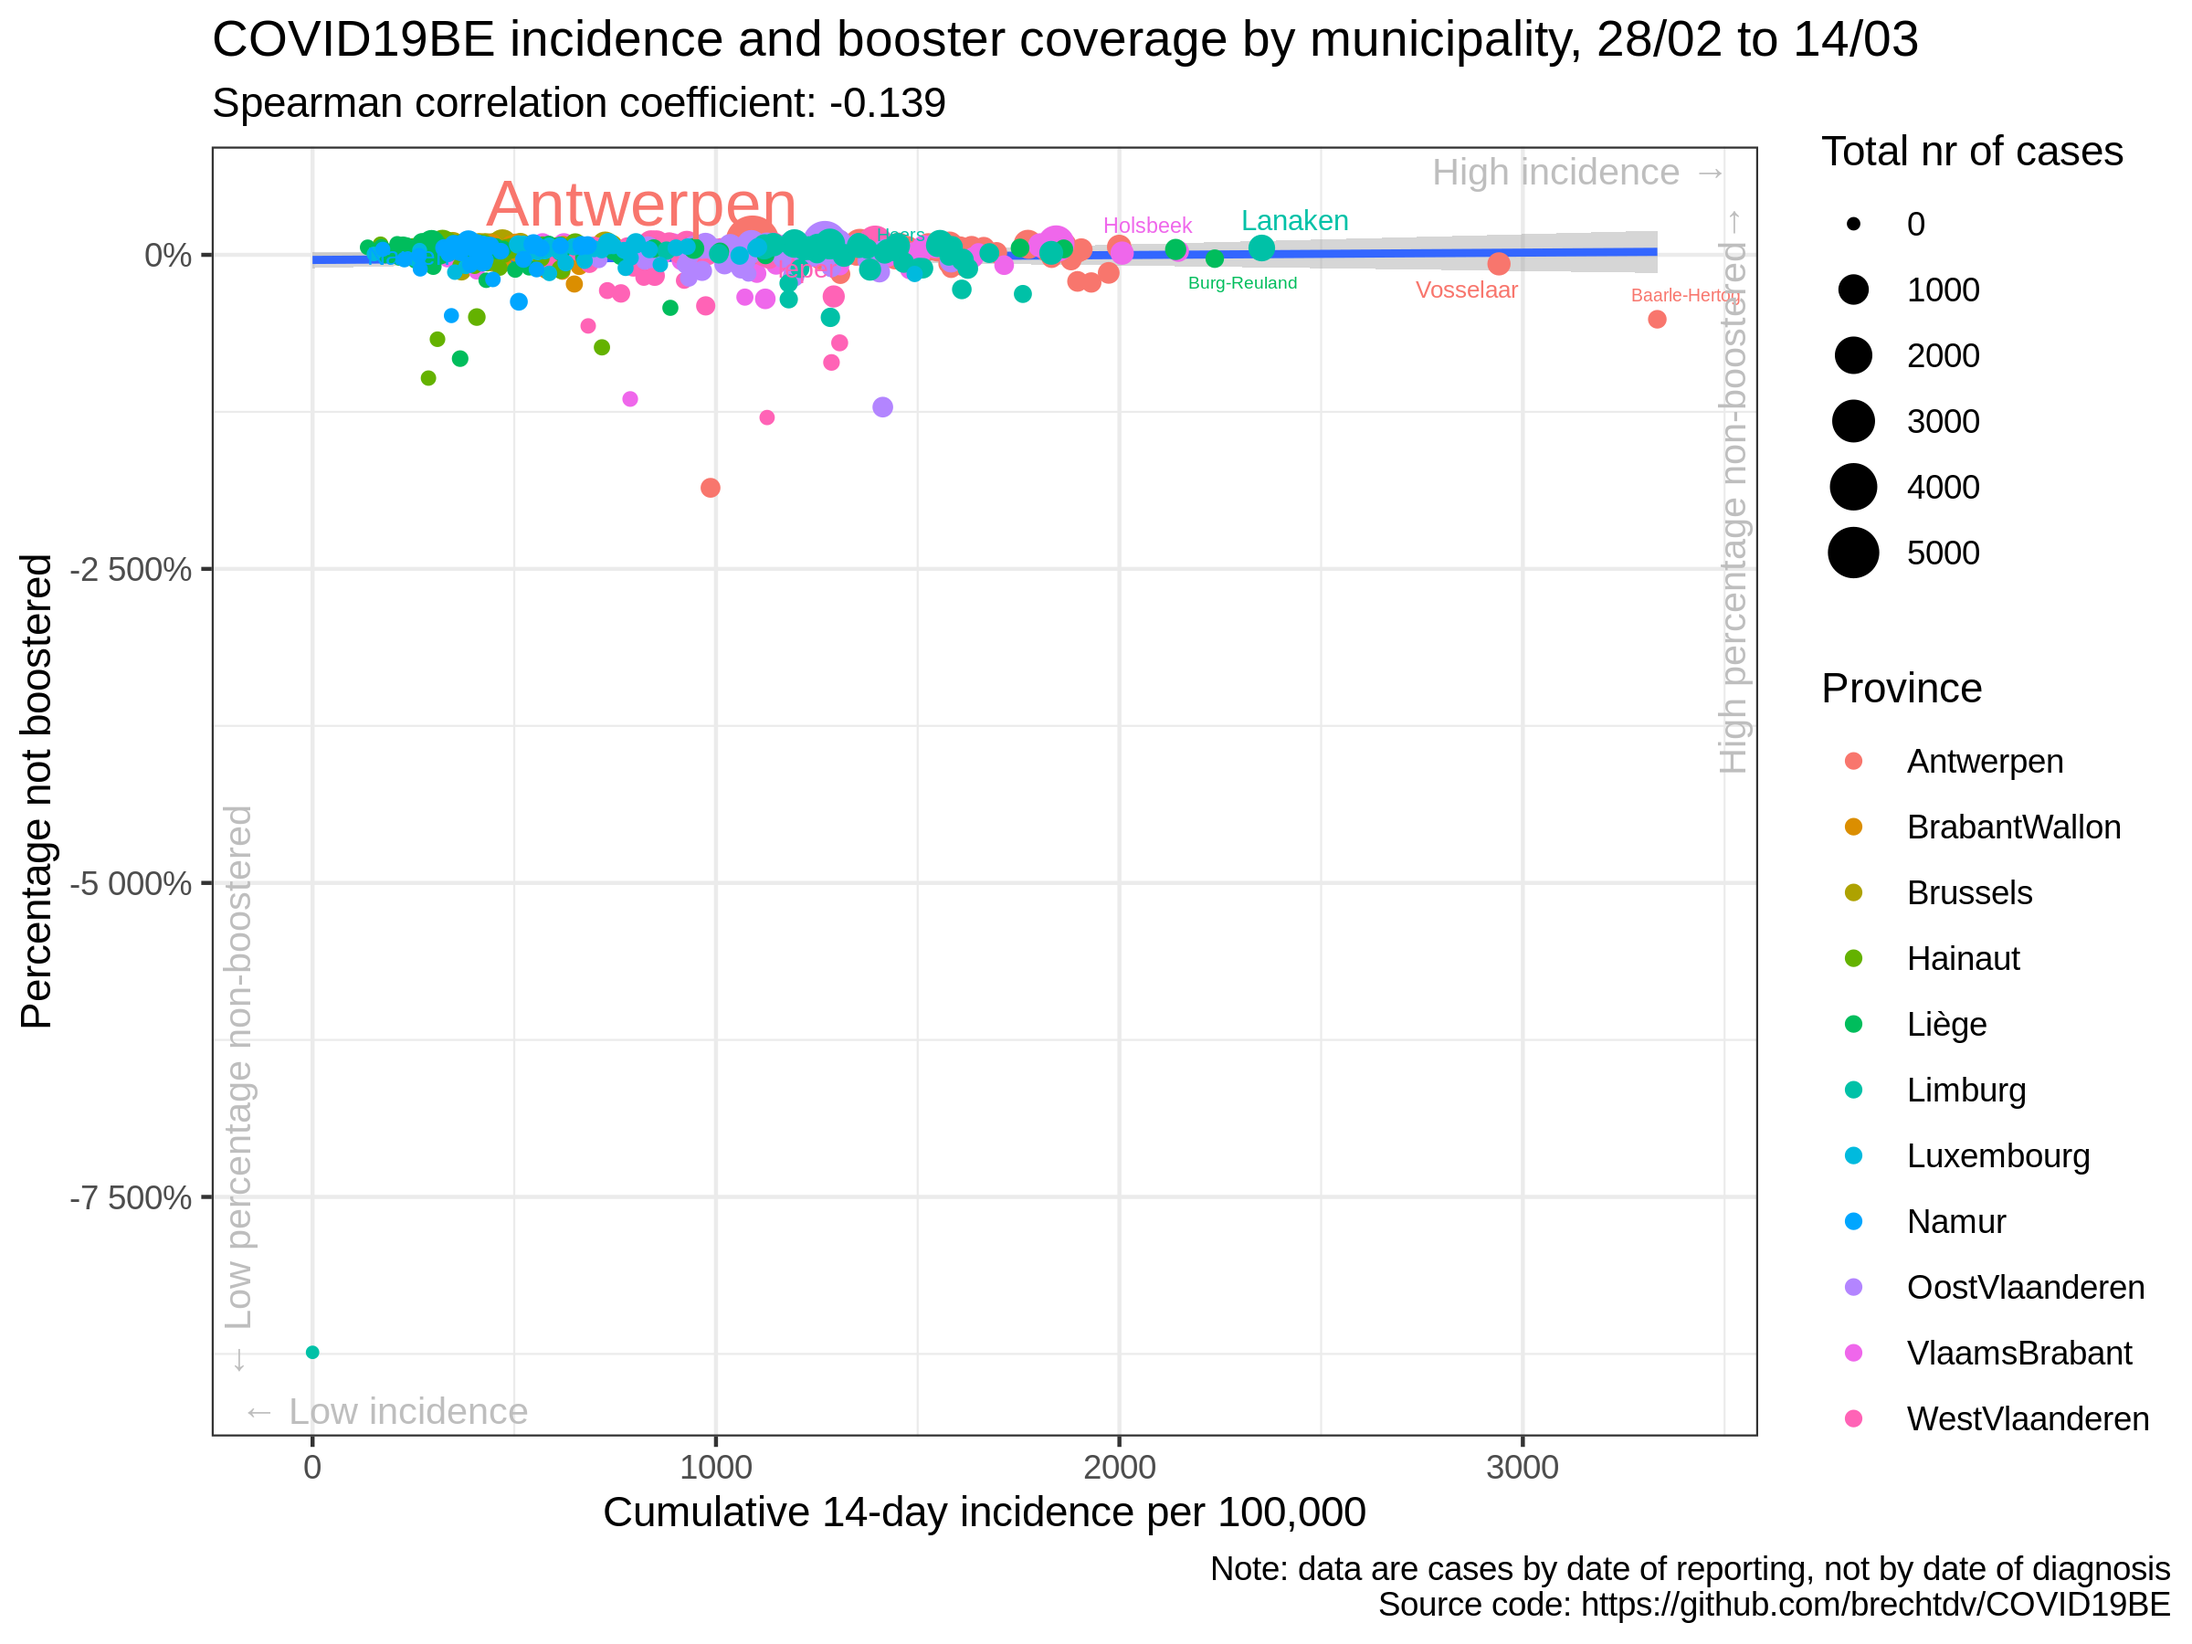
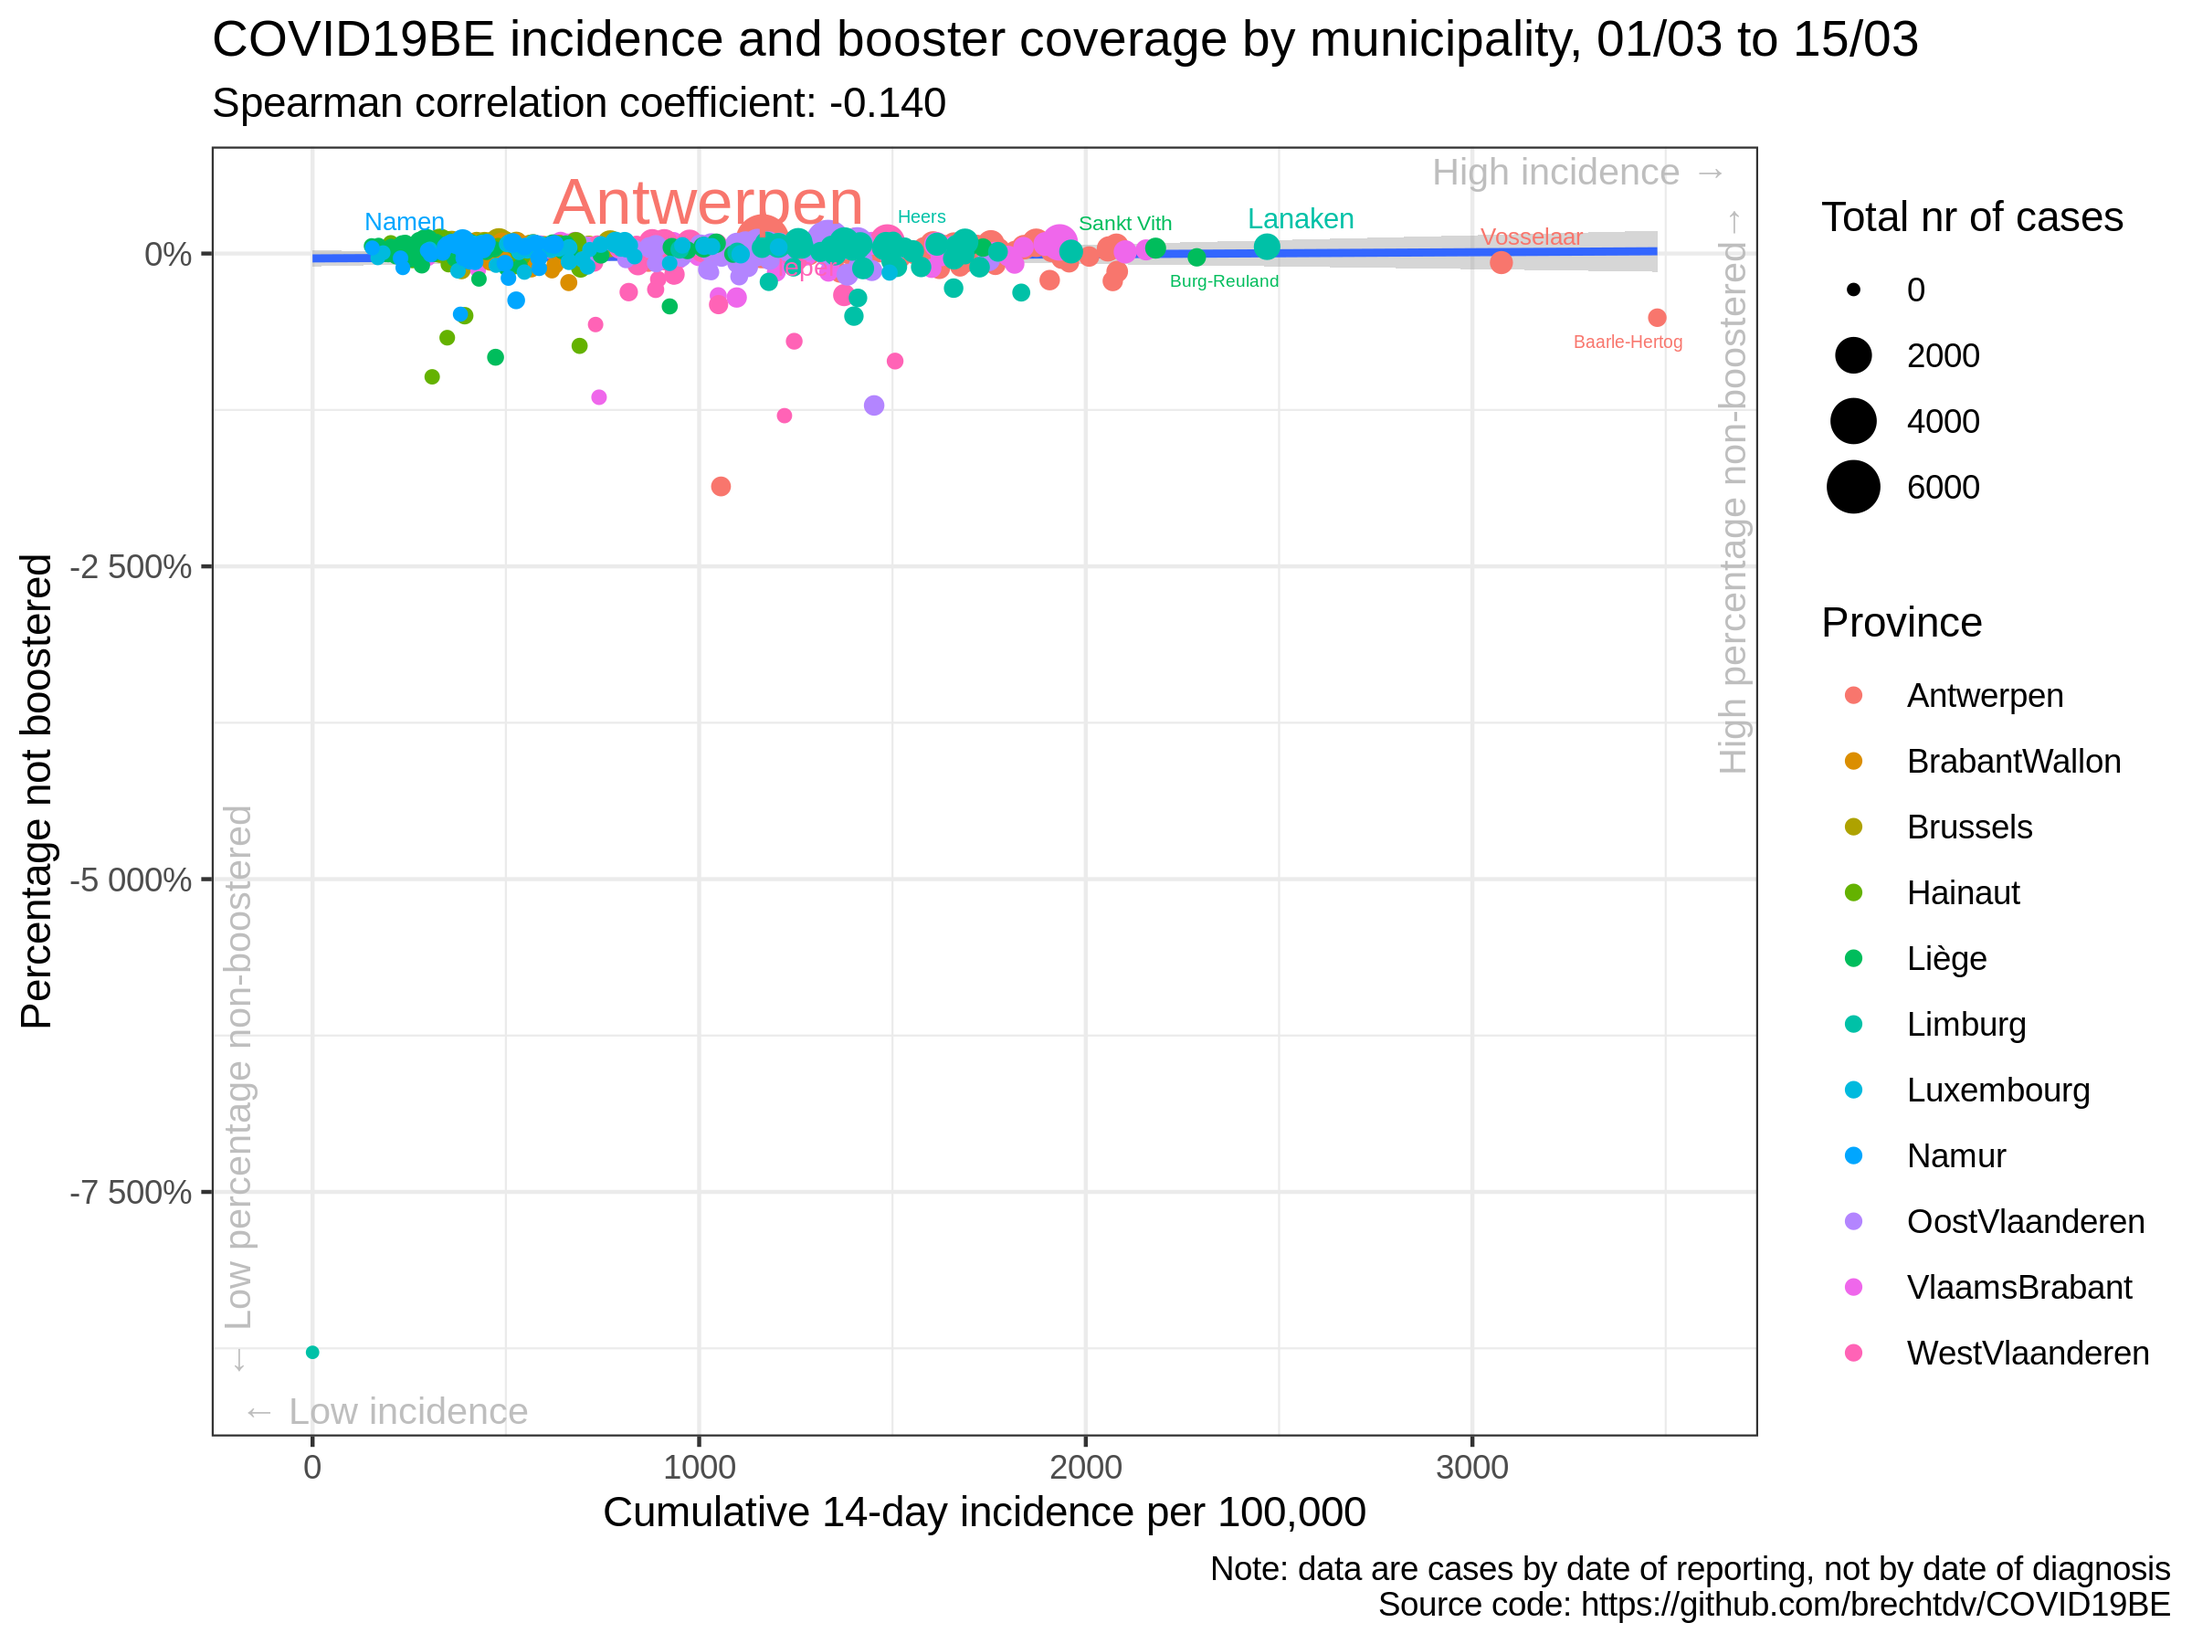
update situation

diff --git a/vaccination/README.md b/vaccination/README.md
@@ -17,35 +17,35 @@
 
 |                | estimate.rho | p.value |
 | :------------- | -----------: | ------: |
-| Antwerpen      |      \-0.049 |   0.687 |
-| BrabantWallon  |      \-0.225 |   0.259 |
-| Brussels       |        0.018 |   0.945 |
-| Hainaut        |      \-0.113 |   0.353 |
-| Liège          |      \-0.125 |   0.258 |
-| Limburg        |      \-0.074 |   0.638 |
-| Luxembourg     |      \-0.040 |   0.798 |
-| Namur          |        0.125 |   0.458 |
-| OostVlaanderen |      \-0.010 |   0.939 |
-| VlaamsBrabant  |      \-0.020 |   0.872 |
-| WestVlaanderen |        0.088 |   0.488 |
-| Belgium        |      \-0.083 |   0.045 |
+| Antwerpen      |      \-0.091 |   0.459 |
+| BrabantWallon  |      \-0.216 |   0.279 |
+| Brussels       |        0.037 |   0.883 |
+| Hainaut        |      \-0.055 |   0.653 |
+| Liège          |      \-0.116 |   0.291 |
+| Limburg        |      \-0.062 |   0.696 |
+| Luxembourg     |      \-0.007 |   0.964 |
+| Namur          |        0.035 |   0.835 |
+| OostVlaanderen |      \-0.029 |   0.824 |
+| VlaamsBrabant  |      \-0.011 |   0.929 |
+| WestVlaanderen |        0.051 |   0.691 |
+| Belgium        |      \-0.084 |   0.044 |
 
 ### Correlation cumulative incidence vs booster rate
 
 |                | estimate.rho | p.value |
 | :------------- | -----------: | ------: |
-| Antwerpen      |      \-0.058 |   0.635 |
-| BrabantWallon  |      \-0.216 |   0.279 |
-| Brussels       |        0.000 |   1.000 |
-| Hainaut        |      \-0.119 |   0.329 |
-| Liège          |      \-0.109 |   0.321 |
-| Limburg        |      \-0.065 |   0.683 |
-| Luxembourg     |      \-0.027 |   0.859 |
-| Namur          |        0.121 |   0.474 |
-| OostVlaanderen |      \-0.005 |   0.970 |
-| VlaamsBrabant  |      \-0.043 |   0.731 |
-| WestVlaanderen |        0.089 |   0.482 |
-| Belgium        |      \-0.139 |   0.001 |
+| Antwerpen      |      \-0.098 |   0.422 |
+| BrabantWallon  |      \-0.200 |   0.315 |
+| Brussels       |        0.016 |   0.951 |
+| Hainaut        |      \-0.063 |   0.608 |
+| Liège          |      \-0.106 |   0.338 |
+| Limburg        |      \-0.059 |   0.711 |
+| Luxembourg     |        0.004 |   0.979 |
+| Namur          |        0.040 |   0.815 |
+| OostVlaanderen |      \-0.024 |   0.858 |
+| VlaamsBrabant  |      \-0.038 |   0.766 |
+| WestVlaanderen |        0.052 |   0.684 |
+| Belgium        |      \-0.140 |   0.001 |
 
 ### Data source
 
